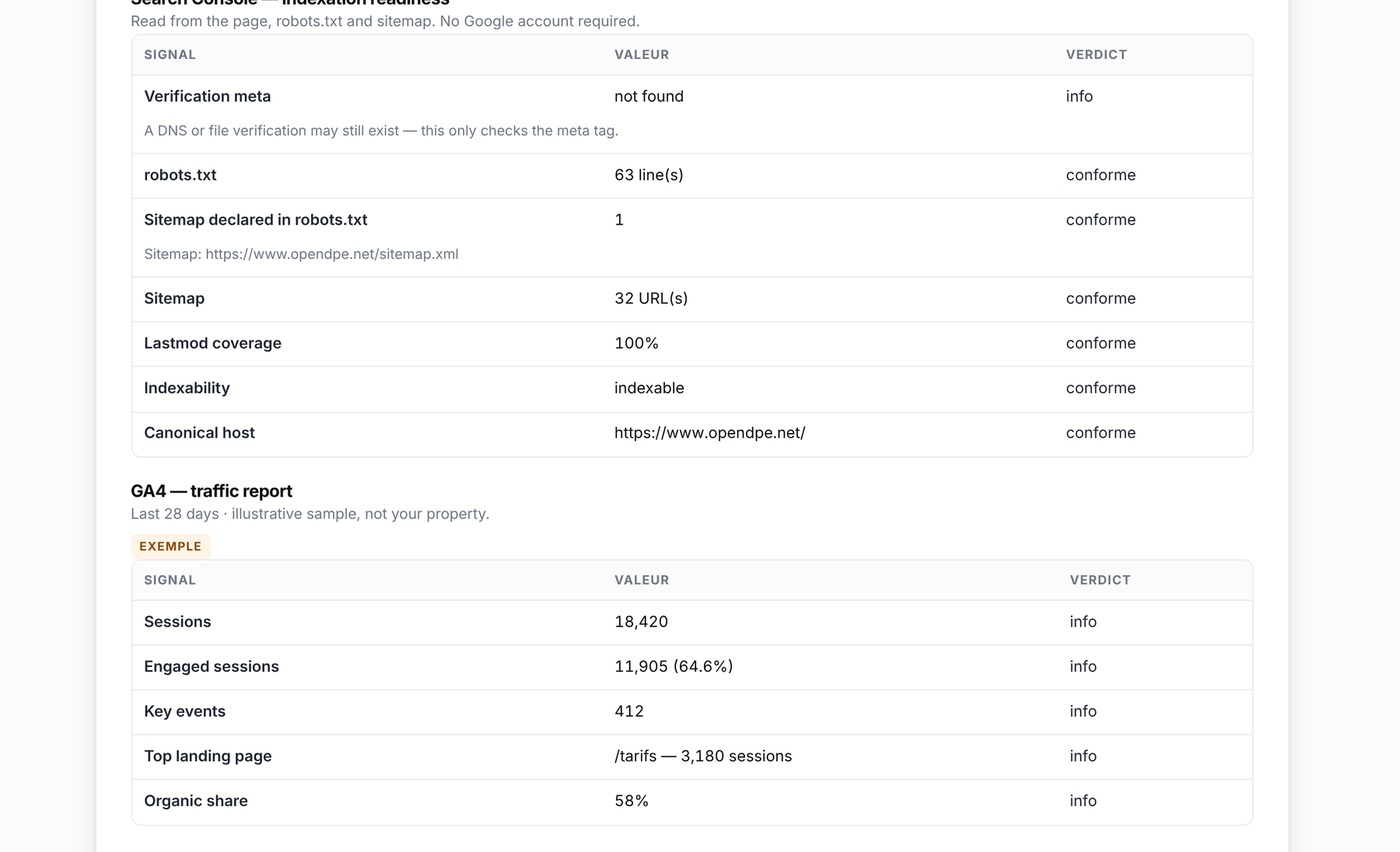
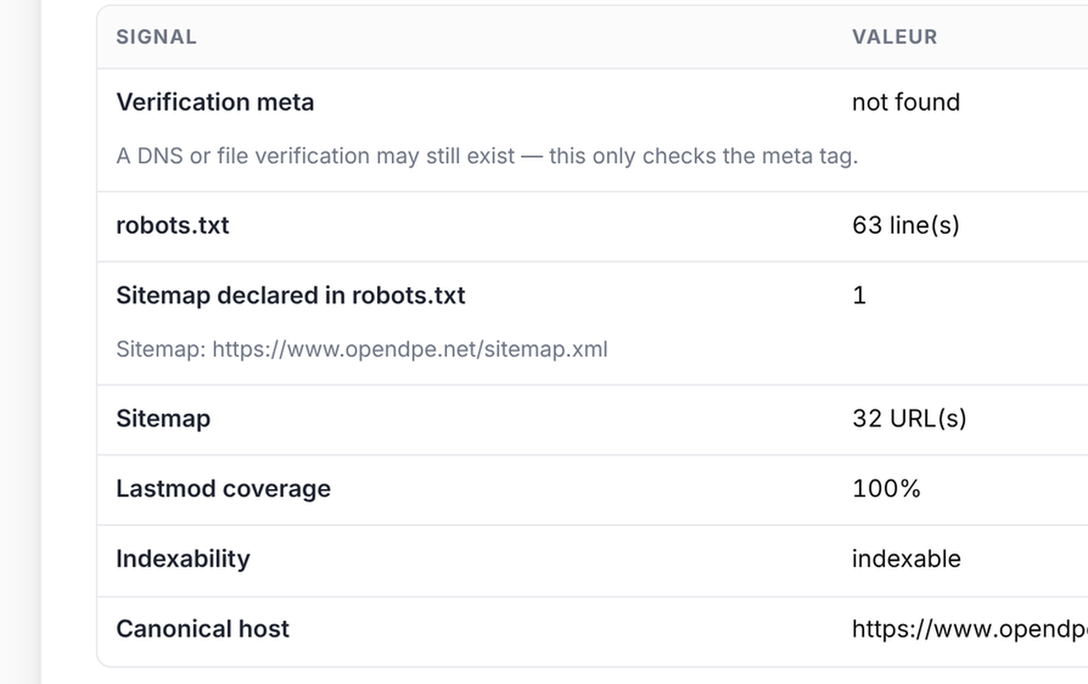
fix(site): legible feature-card screenshots + uniform CTAs
Tighten console crops, fill empty card 07 with engine readiness,
move IndexNow keygen out of cards, pin equal-height CTAs and
uniform dotted panels (object-fit cover) across both languages.

diff --git a/site/fr/index.html b/site/fr/index.html
@@ -294,7 +294,7 @@
           <h3>Voyez ce que Google et ChatGPT lisent d’abord</h3>
           <p>Titre, description, titres et données structurées : la lecture mesure la page réelle. Vous savez immédiatement ce qui freine la visibilité.</p>
           
-          <figure class="feature-shot"><div class="feature-shot-panel"><picture><source type="image/webp" srcset="../assets/screens/free-seo.webp"><img src="../assets/screens/free-seo.png" alt="Tables SEO de la lecture gratuite sur opendpe.net" width="1800" height="1040" loading="lazy" decoding="async"></picture></div></figure>
+          <figure class="feature-shot"><div class="feature-shot-panel"><picture><source type="image/webp" srcset="../assets/screens/free-seo.webp"><img src="../assets/screens/free-seo.png" alt="Tables SEO de la lecture gratuite sur opendpe.net" width="1400" height="880" loading="lazy" decoding="async"></picture></div></figure>
           <p class="feature-cta"><a class="btn btn-small" href="/console/#search">Aller plus loin dans la console</a></p>
         </article>
         <article class="feature-card">
@@ -302,7 +302,7 @@
           <h3>Vérifiez que vos chiffres de trafic existent vraiment</h3>
           <p>Identifiants de mesure, chargeurs en double, consentement : sachez si vos sessions sont réellement enregistrées avant de décider un budget.</p>
           
-          <figure class="feature-shot"><div class="feature-shot-panel"><picture><source type="image/webp" srcset="../assets/screens/free-ga4.webp"><img src="../assets/screens/free-ga4.png" alt="Rapport de préparation GA4 de la lecture gratuite" width="1800" height="1096" loading="lazy" decoding="async"></picture></div></figure>
+          <figure class="feature-shot"><div class="feature-shot-panel"><picture><source type="image/webp" srcset="../assets/screens/free-ga4.webp"><img src="../assets/screens/free-ga4.png" alt="Rapport de préparation GA4 de la lecture gratuite" width="1400" height="880" loading="lazy" decoding="async"></picture></div></figure>
           <p class="feature-cta"><a class="btn btn-small" href="/console/#ga4">Ouvrir GA4 dans la console</a></p>
         </article>
         <article class="feature-card">
@@ -310,7 +310,7 @@
           <h3>Comprenez si Google peut indexer votre site</h3>
           <p>Vérification, directives robots, couverture du sitemap : les bases avant le moindre clic. Puis les requêtes et pages qui amènent déjà du monde.</p>
           
-          <figure class="feature-shot"><div class="feature-shot-panel"><picture><source type="image/webp" srcset="../assets/screens/free-gsc.webp"><img src="../assets/screens/free-gsc.png" alt="Préparation Search Console de la lecture gratuite" width="1800" height="1096" loading="lazy" decoding="async"></picture></div></figure>
+          <figure class="feature-shot"><div class="feature-shot-panel"><picture><source type="image/webp" srcset="../assets/screens/free-gsc.webp"><img src="../assets/screens/free-gsc.png" alt="Préparation Search Console de la lecture gratuite" width="1400" height="880" loading="lazy" decoding="async"></picture></div></figure>
           <p class="feature-cta"><a class="btn btn-small" href="/console/#search">Voir les performances Search</a></p>
         </article>
         <article class="feature-card">
@@ -318,7 +318,7 @@
           <h3>Visualisez l’architecture de votre site</h3>
           <p>Le sitemap XML devient une carte claire : nombre de pages, profondeur, fraîcheur déclarée. Idéal pour prioriser ce que les moteurs doivent découvrir.</p>
           
-          <figure class="feature-shot"><div class="feature-shot-panel"><picture><source type="image/webp" srcset="../assets/screens/free-sitemap.webp"><img src="../assets/screens/free-sitemap.png" alt="Sitemap visuel généré depuis le sitemap XML" width="1800" height="1096" loading="lazy" decoding="async"></picture></div></figure>
+          <figure class="feature-shot"><div class="feature-shot-panel"><picture><source type="image/webp" srcset="../assets/screens/free-sitemap.webp"><img src="../assets/screens/free-sitemap.png" alt="Sitemap visuel généré depuis le sitemap XML" width="1400" height="880" loading="lazy" decoding="async"></picture></div></figure>
           <p class="feature-cta"><a class="btn btn-small" href="/console/#sitemap">Ouvrir le sitemap dans la console</a></p>
         </article>
       </div>
@@ -342,23 +342,25 @@
           <h3>Sachez où vous en êtes face à ChatGPT et Gemini</h3>
           <p>Une note claire sur 100, une trajectoire vers 100, et la préparation par moteur. Vous voyez tout de suite ce qui débloque le plus de trafic IA.</p>
           
-          <figure class="feature-shot"><div class="feature-shot-panel"><picture><source type="image/webp" srcset="../assets/screens/geo-board.webp"><img src="../assets/screens/geo-board.png" alt="Tableau de bord score GEO et préparation des moteurs pour opendpe.net" width="1160" height="620" loading="lazy" decoding="async"></picture></div></figure>
+          <figure class="feature-shot"><div class="feature-shot-panel"><picture><source type="image/webp" srcset="../assets/screens/geo-board.webp"><img src="../assets/screens/geo-board.png" alt="Tableau de bord score GEO et préparation des moteurs pour opendpe.net" width="1400" height="880" loading="lazy" decoding="async"></picture></div></figure>
           
+                  <p class="feature-cta"><a class="btn btn-small" href="/console/#overview">Voir le score GEO</a></p>
         </article>
         <article class="feature-card">
           <p class="feature-num" aria-hidden="true">02</p>
           <h3>Devenez une source que les IA citent</h3>
           <p>Statistiques, structure en questions, réponse en tête, auteur et fraîcheur : les signaux qui font citer votre marque plutôt qu’un concurrent.</p>
           
-          <figure class="feature-shot"><div class="feature-shot-panel"><picture><source type="image/webp" srcset="../assets/screens/citability-main.webp"><img src="../assets/screens/citability-main.png" alt="Écran de score de citabilité dans la console" width="1160" height="525" loading="lazy" decoding="async"></picture></div></figure>
+          <figure class="feature-shot"><div class="feature-shot-panel"><picture><source type="image/webp" srcset="../assets/screens/citability-main.webp"><img src="../assets/screens/citability-main.png" alt="Écran de score de citabilité dans la console" width="1400" height="880" loading="lazy" decoding="async"></picture></div></figure>
           
+                  <p class="feature-cta"><a class="btn btn-small" href="/console/#citability">Ouvrir Citabilité</a></p>
         </article>
         <article class="feature-card">
           <p class="feature-num" aria-hidden="true">03</p>
           <h3>Un plan priorisé : quoi corriger maintenant</h3>
           <p>Chaque correctif affiche son impact. Vous savez quoi faire cette semaine pour remonter la note — et prouver le résultat avant/après.</p>
           
-          <figure class="feature-shot"><div class="feature-shot-panel"><picture><source type="image/webp" srcset="../assets/screens/act-plan-table.webp"><img src="../assets/screens/act-plan-table.png" alt="Plan d’action priorisé avec impact par correctif" width="1160" height="825" loading="lazy" decoding="async"></picture></div></figure>
+          <figure class="feature-shot"><div class="feature-shot-panel"><picture><source type="image/webp" srcset="../assets/screens/act-plan-table.webp"><img src="../assets/screens/act-plan-table.png" alt="Plan d’action priorisé avec impact par correctif" width="1400" height="880" loading="lazy" decoding="async"></picture></div></figure>
           <p class="feature-cta"><a class="btn btn-small" href="/console/#overview/plan">Voir le plan ACT</a></p>
         </article>
         <article class="feature-card">
@@ -366,7 +368,7 @@
           <h3>Suivez les requêtes et pages qui amènent du monde</h3>
           <p>Search Console et GA4 dans la même console : requêtes, pages, appareils, pays. Décidez où investir pour plus de trafic utile.</p>
           
-          <figure class="feature-shot"><div class="feature-shot-panel"><picture><source type="image/webp" srcset="../assets/screens/search-perf.webp"><img src="../assets/screens/search-perf.png" alt="Performances Search Console et pondération dans la console" width="1160" height="825" loading="lazy" decoding="async"></picture></div></figure>
+          <figure class="feature-shot"><div class="feature-shot-panel"><picture><source type="image/webp" srcset="../assets/screens/search-perf.webp"><img src="../assets/screens/search-perf.png" alt="Requêtes Search Console et métriques clics / impressions" width="1400" height="880" loading="lazy" decoding="async"></picture></div></figure>
           <p class="feature-cta"><a class="btn btn-small" href="/console/#search">Ouvrir Recherche</a></p>
         </article>
         <article class="feature-card">
@@ -374,36 +376,43 @@
           <h3>Sécurisez vos tags avant la mise en ligne</h3>
           <p>Contrôlez le conteneur, les événements et le consentement sur la préproduction. Évitez de perdre des conversions après un déploiement.</p>
           
-          <figure class="feature-shot"><div class="feature-shot-panel"><picture><source type="image/webp" srcset="../assets/screens/demarrage-checklist.webp"><img src="../assets/screens/demarrage-checklist.png" alt="Checklist de démarrage et accès connectés dans la console" width="1160" height="290" loading="lazy" decoding="async"></picture></div></figure>
+          <figure class="feature-shot"><div class="feature-shot-panel"><picture><source type="image/webp" srcset="../assets/screens/demarrage-checklist.webp"><img src="../assets/screens/demarrage-checklist.png" alt="Liste des balises GTM (événements) dans la console" width="1400" height="880" loading="lazy" decoding="async"></picture></div></figure>
           <p class="feature-cta"><a class="btn btn-small" href="/console/#tracking">Ouvrir Tracking</a></p>
         </article>
         <article class="feature-card">
           <p class="feature-num" aria-hidden="true">06</p>
           <h3>Annoncez vos nouvelles pages à Bing le jour J</h3>
           <p>Une URL modifiée, un envoi : Bing et les partenaires sont notifiés. Moins d’attente, plus de chances d’être trouvé rapidement.</p>
-                    <div class="ink-mini">
-            <label class="sr-only" for="ink-host">Votre hôte</label>
-            <input id="ink-host" name="ink-host" type="text" placeholder="exemple.fr" inputmode="url" autocomplete="url">
-            <button class="btn btn-small" type="button" id="ink-generate">Générer une clé</button>
-          </div>
-          <p class="ink-mini-out" id="ink-out" hidden><code id="ink-key"></code><span id="ink-file"></span></p>
-          <div class="ink-mini-row">
-            <button class="btn btn-ghost btn-small" type="button" id="ink-download" hidden>Télécharger le .txt</button>
-          </div>
-          <figure class="feature-shot"><div class="feature-shot-panel"><picture><source type="image/webp" srcset="../assets/screens/indexnow-main.webp"><img src="../assets/screens/indexnow-main.png" alt="Panneau IndexNow et Bing dans la console" width="1160" height="825" loading="lazy" decoding="async"></picture></div></figure>
+<figure class="feature-shot"><div class="feature-shot-panel"><picture><source type="image/webp" srcset="../assets/screens/indexnow-main.webp"><img src="../assets/screens/indexnow-main.png" alt="Panneau IndexNow et Bing dans la console" width="1400" height="880" loading="lazy" decoding="async"></picture></div></figure>
           
+                  <p class="feature-cta"><a class="btn btn-small" href="/console/#indexnow">Ouvrir IndexNow</a></p>
         </article>
         <article class="feature-card">
           <p class="feature-num" aria-hidden="true">07</p>
           <h3>Voyez où vos concurrents gagnent la conversation</h3>
           <p>Comparez les thèmes que vous possédez seuls et ceux qu’ils couvrent mieux. Ajustez le message pour être la réponse choisie.</p>
           
-          <figure class="feature-shot"><div class="feature-shot-panel"><picture><source type="image/webp" srcset="../assets/screens/tools-calc.webp"><img src="../assets/screens/tools-calc.png" alt="Outils et calculateurs de la console pour prioriser les actions" width="1160" height="825" loading="lazy" decoding="async"></picture></div></figure>
+          <figure class="feature-shot"><div class="feature-shot-panel"><picture><source type="image/webp" srcset="../assets/screens/tools-calc.webp"><img src="../assets/screens/tools-calc.png" alt="Préparation par moteur : scores ChatGPT, Gemini, Copilot et Perplexity pour opendpe.net" width="1200" height="900" loading="lazy" decoding="async"></picture></div></figure>
           
+                  <p class="feature-cta"><a class="btn btn-small" href="/console/#overview">Comparer les moteurs</a></p>
         </article>
+      </div>
+      <div class="ink-utility" id="indexnow-keygen">
+        <p class="ink-utility__label">Générer une clé IndexNow (hors console)</p>
+        <div class="ink-mini">
+          <label class="sr-only" for="ink-host">Votre hôte</label>
+          <input id="ink-host" name="ink-host" type="text" placeholder="exemple.fr" inputmode="url" autocomplete="url">
+          <button class="btn btn-small" type="button" id="ink-generate">Générer une clé</button>
+        </div>
+        <p class="ink-mini-out" id="ink-out" hidden><code id="ink-key"></code><span id="ink-file"></span></p>
+        <div class="ink-mini-row">
+          <button class="btn btn-ghost btn-small" type="button" id="ink-download" hidden>Télécharger le .txt</button>
+        </div>
       </div>
     </div>
   </section>
+
+
 
   <!-- ── Analysis console ─────────────────────────────────── -->
   <section class="section section-console" id="console" aria-labelledby="console-heading">

diff --git a/site/index.html b/site/index.html
@@ -293,7 +293,7 @@
           <h3>See what Google and ChatGPT read first</h3>
           <p>Title, description, headings and structured data: the free read measures the real page. You instantly see what blocks visibility.</p>
           
-          <figure class="feature-shot"><div class="feature-shot-panel"><picture><source type="image/webp" srcset="assets/screens/free-seo.webp"><img src="assets/screens/free-seo.png" alt="Free-read SEO tables for opendpe.net" width="1800" height="1040" loading="lazy" decoding="async"></picture></div></figure>
+          <figure class="feature-shot"><div class="feature-shot-panel"><picture><source type="image/webp" srcset="assets/screens/free-seo.webp"><img src="assets/screens/free-seo.png" alt="Free-read SEO tables for opendpe.net" width="1400" height="880" loading="lazy" decoding="async"></picture></div></figure>
           <p class="feature-cta"><a class="btn btn-small" href="/console/#search">Go further in the console</a></p>
         </article>
         <article class="feature-card">
@@ -301,7 +301,7 @@
           <h3>Check that your traffic numbers are real</h3>
           <p>Measurement IDs, duplicate loaders, consent: know whether sessions are actually recorded before you spend another euro on ads.</p>
           
-          <figure class="feature-shot"><div class="feature-shot-panel"><picture><source type="image/webp" srcset="assets/screens/free-ga4.webp"><img src="assets/screens/free-ga4.png" alt="Free-read GA4 readiness report" width="1800" height="1096" loading="lazy" decoding="async"></picture></div></figure>
+          <figure class="feature-shot"><div class="feature-shot-panel"><picture><source type="image/webp" srcset="assets/screens/free-ga4.webp"><img src="assets/screens/free-ga4.png" alt="Free-read GA4 readiness report" width="1400" height="880" loading="lazy" decoding="async"></picture></div></figure>
           <p class="feature-cta"><a class="btn btn-small" href="/console/#ga4">Open GA4 in the console</a></p>
         </article>
         <article class="feature-card">
@@ -309,7 +309,7 @@
           <h3>Know whether Google can index your site</h3>
           <p>Verification, robots rules, sitemap coverage: the basics before any click. Then the queries and pages that already bring people in.</p>
           
-          <figure class="feature-shot"><div class="feature-shot-panel"><picture><source type="image/webp" srcset="assets/screens/free-gsc.webp"><img src="assets/screens/free-gsc.png" alt="Free-read Search Console readiness" width="1800" height="1096" loading="lazy" decoding="async"></picture></div></figure>
+          <figure class="feature-shot"><div class="feature-shot-panel"><picture><source type="image/webp" srcset="assets/screens/free-gsc.webp"><img src="assets/screens/free-gsc.png" alt="Free-read Search Console readiness" width="1400" height="880" loading="lazy" decoding="async"></picture></div></figure>
           <p class="feature-cta"><a class="btn btn-small" href="/console/#search">See Search performance</a></p>
         </article>
         <article class="feature-card">
@@ -317,7 +317,7 @@
           <h3>Visualise your site architecture</h3>
           <p>The XML sitemap becomes a clear map: page count, depth, declared freshness. Prioritise what engines should discover next.</p>
           
-          <figure class="feature-shot"><div class="feature-shot-panel"><picture><source type="image/webp" srcset="assets/screens/free-sitemap.webp"><img src="assets/screens/free-sitemap.png" alt="Visual sitemap built from the XML sitemap" width="1800" height="1096" loading="lazy" decoding="async"></picture></div></figure>
+          <figure class="feature-shot"><div class="feature-shot-panel"><picture><source type="image/webp" srcset="assets/screens/free-sitemap.webp"><img src="assets/screens/free-sitemap.png" alt="Visual sitemap built from the XML sitemap" width="1400" height="880" loading="lazy" decoding="async"></picture></div></figure>
           <p class="feature-cta"><a class="btn btn-small" href="/console/#sitemap">Open the sitemap in the console</a></p>
         </article>
       </div>
@@ -341,23 +341,25 @@
           <h3>See where you stand with ChatGPT and Gemini</h3>
           <p>A clear score out of 100, a path to 100, and readiness by engine. Spot what unlocks the most AI traffic first.</p>
           
-          <figure class="feature-shot"><div class="feature-shot-panel"><picture><source type="image/webp" srcset="assets/screens/geo-board.webp"><img src="assets/screens/geo-board.png" alt="GEO score board and engine readiness for opendpe.net" width="1160" height="620" loading="lazy" decoding="async"></picture></div></figure>
+          <figure class="feature-shot"><div class="feature-shot-panel"><picture><source type="image/webp" srcset="assets/screens/geo-board.webp"><img src="assets/screens/geo-board.png" alt="GEO score board and engine readiness for opendpe.net" width="1400" height="880" loading="lazy" decoding="async"></picture></div></figure>
           
+                  <p class="feature-cta"><a class="btn btn-small" href="/console/#overview">Open the GEO score</a></p>
         </article>
         <article class="feature-card">
           <p class="feature-num" aria-hidden="true">02</p>
           <h3>Become a source AI engines quote</h3>
           <p>Statistics, question-led structure, answer-first writing, authorship and freshness: the signals that get your brand cited over a rival.</p>
           
-          <figure class="feature-shot"><div class="feature-shot-panel"><picture><source type="image/webp" srcset="assets/screens/citability-main.webp"><img src="assets/screens/citability-main.png" alt="Citability score screen in the console" width="1160" height="525" loading="lazy" decoding="async"></picture></div></figure>
+          <figure class="feature-shot"><div class="feature-shot-panel"><picture><source type="image/webp" srcset="assets/screens/citability-main.webp"><img src="assets/screens/citability-main.png" alt="Citability score screen in the console" width="1400" height="880" loading="lazy" decoding="async"></picture></div></figure>
           
+                  <p class="feature-cta"><a class="btn btn-small" href="/console/#citability">Open Citability</a></p>
         </article>
         <article class="feature-card">
           <p class="feature-num" aria-hidden="true">03</p>
           <h3>A prioritised plan: what to fix now</h3>
           <p>Every fix shows its impact. Know what to ship this week to raise the score — and prove the before/after.</p>
           
-          <figure class="feature-shot"><div class="feature-shot-panel"><picture><source type="image/webp" srcset="assets/screens/act-plan-table.webp"><img src="assets/screens/act-plan-table.png" alt="Prioritised action plan with impact per fix" width="1160" height="825" loading="lazy" decoding="async"></picture></div></figure>
+          <figure class="feature-shot"><div class="feature-shot-panel"><picture><source type="image/webp" srcset="assets/screens/act-plan-table.webp"><img src="assets/screens/act-plan-table.png" alt="Prioritised action plan with impact per fix" width="1400" height="880" loading="lazy" decoding="async"></picture></div></figure>
           <p class="feature-cta"><a class="btn btn-small" href="/console/#overview/plan">Open the ACT plan</a></p>
         </article>
         <article class="feature-card">
@@ -365,7 +367,7 @@
           <h3>Track the queries and pages that bring people in</h3>
           <p>Search Console and GA4 in one console: queries, pages, devices, countries. Invest where useful traffic already starts.</p>
           
-          <figure class="feature-shot"><div class="feature-shot-panel"><picture><source type="image/webp" srcset="assets/screens/search-perf.webp"><img src="assets/screens/search-perf.png" alt="Search Console performance weighting in the console" width="1160" height="825" loading="lazy" decoding="async"></picture></div></figure>
+          <figure class="feature-shot"><div class="feature-shot-panel"><picture><source type="image/webp" srcset="assets/screens/search-perf.webp"><img src="assets/screens/search-perf.png" alt="Search Console queries with clicks and impressions" width="1400" height="880" loading="lazy" decoding="async"></picture></div></figure>
           <p class="feature-cta"><a class="btn btn-small" href="/console/#search">Open Search</a></p>
         </article>
         <article class="feature-card">
@@ -373,33 +375,38 @@
           <h3>Secure your tags before go-live</h3>
           <p>Check the container, events and consent on staging. Avoid losing conversions after a deploy.</p>
           
-          <figure class="feature-shot"><div class="feature-shot-panel"><picture><source type="image/webp" srcset="assets/screens/demarrage-checklist.webp"><img src="assets/screens/demarrage-checklist.png" alt="Getting-started checklist and connected access in the console" width="1160" height="290" loading="lazy" decoding="async"></picture></div></figure>
+          <figure class="feature-shot"><div class="feature-shot-panel"><picture><source type="image/webp" srcset="assets/screens/demarrage-checklist.webp"><img src="assets/screens/demarrage-checklist.png" alt="GTM tag list (events) in the console" width="1400" height="880" loading="lazy" decoding="async"></picture></div></figure>
           <p class="feature-cta"><a class="btn btn-small" href="/console/#tracking">Open Tracking</a></p>
         </article>
         <article class="feature-card">
           <p class="feature-num" aria-hidden="true">06</p>
           <h3>Tell Bing about new pages the day you publish</h3>
           <p>One changed URL, one submit: Bing and partners are notified. Less waiting, more chance of being found fast.</p>
-                    <div class="ink-mini">
-            <label class="sr-only" for="ink-host">Your host</label>
-            <input id="ink-host" name="ink-host" type="text" placeholder="example.com" inputmode="url" autocomplete="url">
-            <button class="btn btn-small" type="button" id="ink-generate">Generate a key</button>
-          </div>
-          <p class="ink-mini-out" id="ink-out" hidden><code id="ink-key"></code><span id="ink-file"></span></p>
-          <div class="ink-mini-row">
-            <button class="btn btn-ghost btn-small" type="button" id="ink-download" hidden>Download .txt</button>
-          </div>
-          <figure class="feature-shot"><div class="feature-shot-panel"><picture><source type="image/webp" srcset="assets/screens/indexnow-main.webp"><img src="assets/screens/indexnow-main.png" alt="IndexNow and Bing panel in the console" width="1160" height="825" loading="lazy" decoding="async"></picture></div></figure>
+<figure class="feature-shot"><div class="feature-shot-panel"><picture><source type="image/webp" srcset="assets/screens/indexnow-main.webp"><img src="assets/screens/indexnow-main.png" alt="IndexNow and Bing panel in the console" width="1400" height="880" loading="lazy" decoding="async"></picture></div></figure>
           
+                  <p class="feature-cta"><a class="btn btn-small" href="/console/#indexnow">Open IndexNow</a></p>
         </article>
         <article class="feature-card">
           <p class="feature-num" aria-hidden="true">07</p>
           <h3>See where competitors win the conversation</h3>
           <p>Compare themes only you own with themes they cover better. Adjust the message so you become the chosen answer.</p>
           
-          <figure class="feature-shot"><div class="feature-shot-panel"><picture><source type="image/webp" srcset="assets/screens/tools-calc.webp"><img src="assets/screens/tools-calc.png" alt="Console tools and calculators to prioritise actions" width="1160" height="825" loading="lazy" decoding="async"></picture></div></figure>
+          <figure class="feature-shot"><div class="feature-shot-panel"><picture><source type="image/webp" srcset="assets/screens/tools-calc.webp"><img src="assets/screens/tools-calc.png" alt="Engine readiness: ChatGPT, Gemini, Copilot and Perplexity scores for opendpe.net" width="1200" height="900" loading="lazy" decoding="async"></picture></div></figure>
           
+                  <p class="feature-cta"><a class="btn btn-small" href="/console/#overview">Compare engines</a></p>
         </article>
+      </div>
+      <div class="ink-utility" id="indexnow-keygen">
+        <p class="ink-utility__label">Generate an IndexNow key (outside the console)</p>
+        <div class="ink-mini">
+          <label class="sr-only" for="ink-host">Your host</label>
+          <input id="ink-host" name="ink-host" type="text" placeholder="example.com" inputmode="url" autocomplete="url">
+          <button class="btn btn-small" type="button" id="ink-generate">Generate a key</button>
+        </div>
+        <p class="ink-mini-out" id="ink-out" hidden><code id="ink-key"></code><span id="ink-file"></span></p>
+        <div class="ink-mini-row">
+          <button class="btn btn-ghost btn-small" type="button" id="ink-download" hidden>Download .txt</button>
+        </div>
       </div>
     </div>
   </section>

diff --git a/site/styles.css b/site/styles.css
@@ -334,6 +334,7 @@ pre code { background: none; border: 0; padding: 0; font-size: .86rem; }
   display: grid;
   grid-template-columns: repeat(2, minmax(0, 1fr));
   gap: 0;
+  align-items: stretch;
   border: 1px solid var(--line);
   border-radius: var(--radius-lg);
   overflow: hidden;
@@ -353,6 +354,7 @@ pre code { background: none; border: 0; padding: 0; font-size: .86rem; }
   padding: 1.6rem 1.5rem 1.45rem;
   background: var(--card);
   min-width: 0;
+  height: 100%;
 }
 .feature-card .feature-num {
   margin: 0;
@@ -378,30 +380,43 @@ pre code { background: none; border: 0; padding: 0; font-size: .86rem; }
 .feature-shot {
   margin: .35rem 0 0;
   flex: 1 1 auto;
+  display: flex;
+  flex-direction: column;
+  min-height: 0;
 }
 .feature-shot-panel {
   background:
     radial-gradient(circle at 1px 1px, #d7deea 1px, transparent 0) 0 0 / 14px 14px,
     #f3f5f9;
   border-radius: 12px;
-  padding: 1.1rem 1rem 0;
+  padding: 1rem 1rem 0;
   overflow: hidden;
-  min-height: 12rem;
+  width: 100%;
+  aspect-ratio: 16 / 10;
+  height: auto;
+  min-height: 11.5rem;
   display: flex;
-  align-items: flex-end;
+  align-items: flex-start;
   justify-content: center;
 }
-.feature-shot-panel img {
+.feature-shot-panel img,
+.feature-shot-panel picture {
   display: block;
   width: 100%;
-  height: auto;
+  height: 100%;
   max-width: 100%;
+}
+.feature-shot-panel picture { height: 100%; }
+.feature-shot-panel img {
+  object-fit: cover;
+  object-position: top center;
   border-radius: 10px 10px 0 0;
   box-shadow: 0 12px 28px -16px rgba(15, 23, 42, .45), 0 1px 0 rgba(255,255,255,.7) inset;
   background: #fff;
 }
 .feature-cta {
-  margin: .35rem 0 0;
+  margin-top: auto;
+  padding-top: .35rem;
 }
 .feature-cta .btn.btn-small {
   width: 100%;
@@ -410,9 +425,21 @@ pre code { background: none; border: 0; padding: 0; font-size: .86rem; }
   min-height: 3.5rem;
   box-sizing: border-box;
 }
-.feature-card .ink-mini {
-  margin-top: .15rem;
+.ink-utility {
+  margin: 1.35rem 0 0;
+  padding: 1.1rem 1.2rem;
+  border: 1px solid var(--line);
+  border-radius: var(--radius-lg);
+  background: var(--card);
+  box-shadow: var(--shadow);
+  max-width: 36rem;
 }
+.ink-utility__label {
+  margin: 0 0 .65rem;
+  font-size: .88rem;
+  color: var(--muted);
+}
+.ink-utility .ink-mini { margin: 0; }
 @media (max-width: 860px) {
   .feature-grid-2 {
     grid-template-columns: 1fr;
@@ -425,6 +452,7 @@ pre code { background: none; border: 0; padding: 0; font-size: .86rem; }
   }
   .feature-shot-panel {
     min-height: 10rem;
+    aspect-ratio: 16 / 11;
     padding: .85rem .75rem 0;
   }
 }
